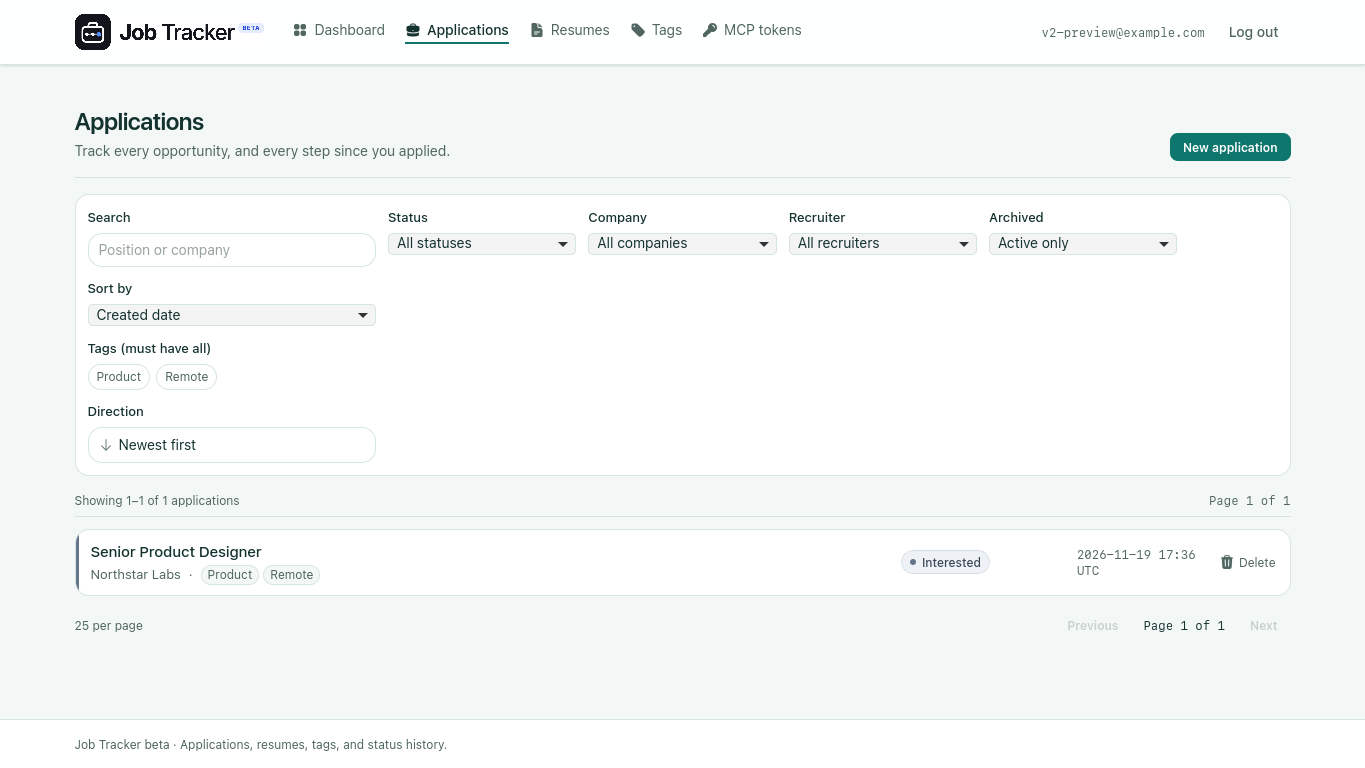
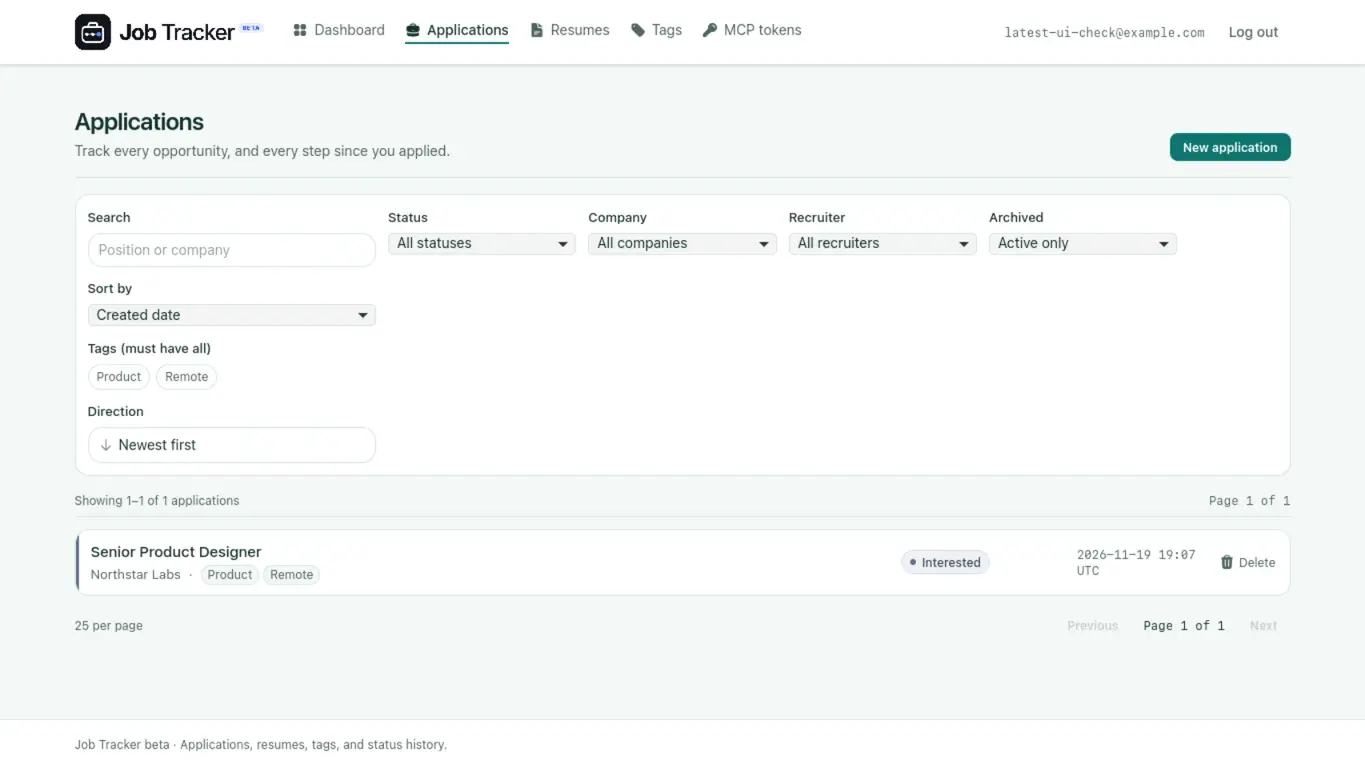
Phase 16: Refresh README Screenshot
- Re-capture the v2 application list from the latest running UI.
- Keep README and handoff notes aligned with the refreshed 1365x768 screenshot.

diff --git a/SESSION.md b/SESSION.md
@@ -12,7 +12,7 @@ Update it before ending every session.
 - **Next task:** Await review of Phase 16.
 - **Overall status:** Phases 1–16 complete and verified locally. `mix precommit`
   passes with 354 tests.
-- **Last commit:** Phase 16: UI v2 Palette and Icon Theme.
+- **Last commit:** Phase 16: Refresh README Screenshot.
 
 Phase 16 shifts the interface palette to evergreen and amber, updates all
 default Heroicons to solid 24px, and keeps explicit outline/mini variants
@@ -21,10 +21,10 @@ tokens. Product behavior, status colors, and the official supplied logo remain
 unchanged.
 
 `design-system/job-tracker/MASTER.md` records the v2 decisions. `README.md`
-embeds the v2 application-list screenshot. Browser proof covered login and
-applications on desktop and the application list at 375px with no page-level
-horizontal overflow. `mix precommit` passes with 354 tests; Credo strict reports
-no issues.
+embeds a fresh capture from the current v2 app rendered on port 4001. Browser
+proof covered login and applications on desktop and the application list at
+375px with no page-level horizontal overflow. `mix precommit` passes with 354
+tests; Credo strict reports no issues.
 
 ## Assumptions Made
 
@@ -247,6 +247,15 @@ None. If this file and PRODUCT.md conflict, PRODUCT.md wins; list the conflict h
 Add one entry per session, newest first, in this format:
 
 ### 2026-11-19
+
+- **Done:** Re-captured the README screenshot from the current v2 application
+  list at 1365×768; the rendered layout matches the latest implementation.
+- **Verification:** Preview started on port 4001; application list rendered
+  with no page-level horizontal overflow at desktop width.
+- **Commit:** `Phase 16: Refresh README Screenshot`.
+- **Assumptions:** Screenshot data is isolated local preview data.
+- **Blockers:** None.
+- **Next:** Await Phase 16 review; production blockers remain operator-owned.
 
 - **Done:** Phase 16: replaced the cobalt palette with evergreen and amber,
   switched Heroicons to solid by default, and updated the design decisions and

diff --git a/TASKS.md b/TASKS.md
@@ -709,7 +709,7 @@ migrations, URL contracts, ownership rules, and flash strings are unchanged. See
 
 **Phase 16 completion notes:**
 - Evergreen and amber tokens replace the cobalt palette. Solid 24px Heroicons are the default; explicit outline/mini variants remain available.
-- `design-system/job-tracker/MASTER.md` records v2 choices; README embeds the 1365×768 application-list screenshot.
+- `design-system/job-tracker/MASTER.md` records v2 choices; README embeds a fresh 1365×768 capture of the current application list from port 4001.
 - Browser proof covered login and applications at desktop, and the application list at 375px with no page-level horizontal overflow.
 - `mix precommit` passes with 354 tests; Credo strict reports no issues.
 
